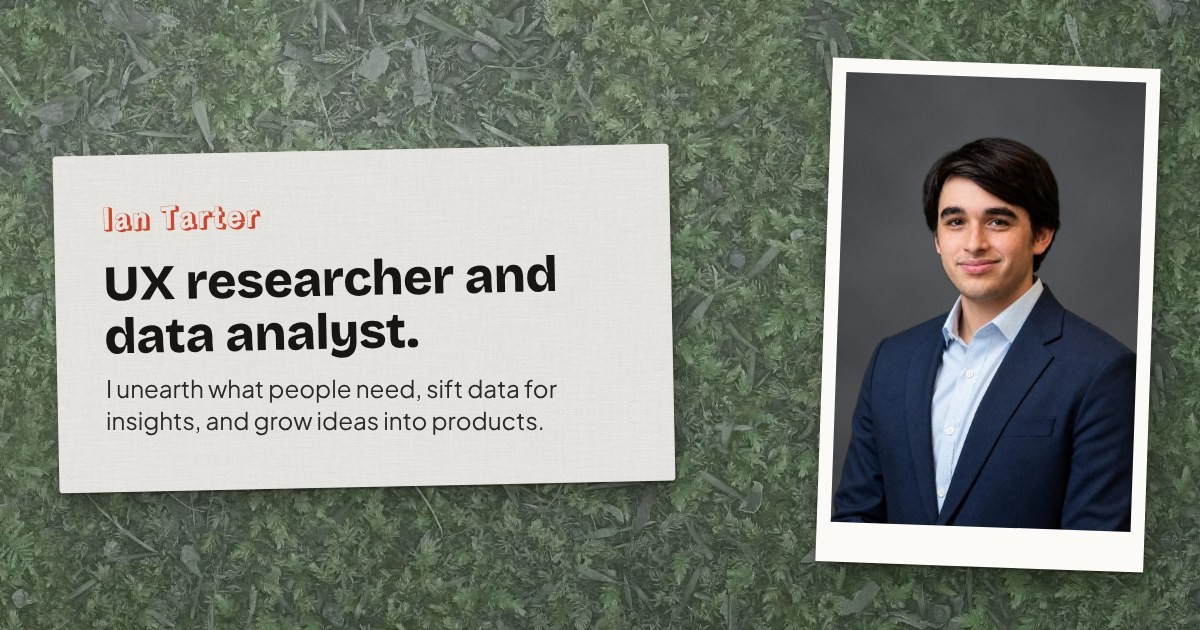
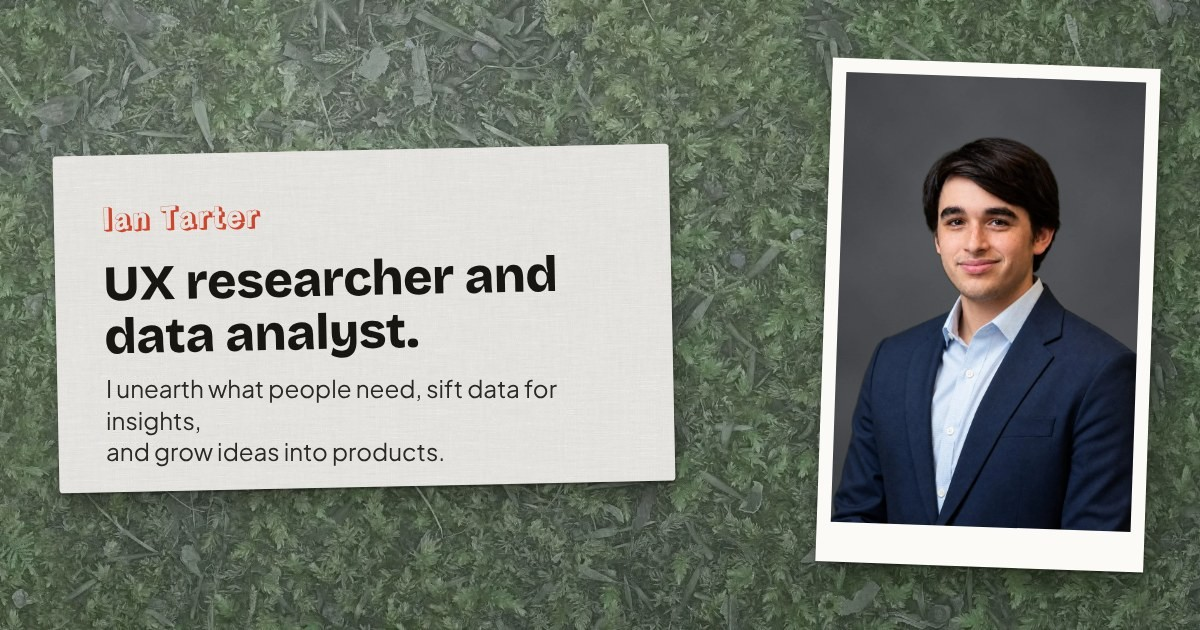
Share image: same line break as the hero
Claude-Session: https://claude.ai/code/session_01PnSu5yoinqYPUHPg7qkA5p

Changed region(s): [[0.0925, 0.6635, 0.4625, 0.754]]

diff --git a/index.html b/index.html
@@ -10,7 +10,7 @@
 <meta property="og:title" content="Ian Tarter">
 <meta property="og:description" content="UX researcher and data analyst. I unearth what people need, sift data for insights, and grow ideas into products. Open to full-time UX research and data roles, fall 2027.">
 <meta property="og:url" content="https://iantarter.com/">
-<meta property="og:image" content="https://iantarter.com/assets/img/og/og-home.jpg?v=2">
+<meta property="og:image" content="https://iantarter.com/assets/img/og/og-home.jpg?v=3">
 <meta property="og:image:width" content="1200">
 <meta property="og:image:height" content="630">
 <meta name="twitter:card" content="summary_large_image">
